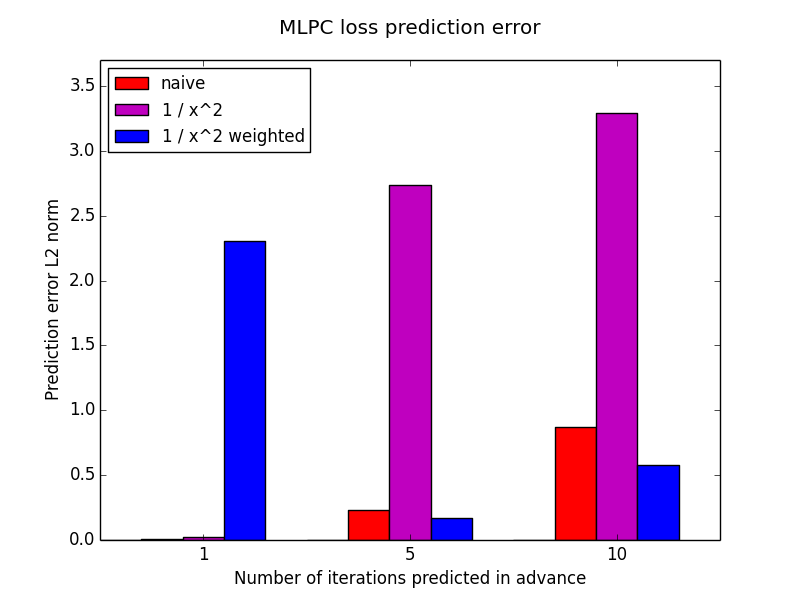
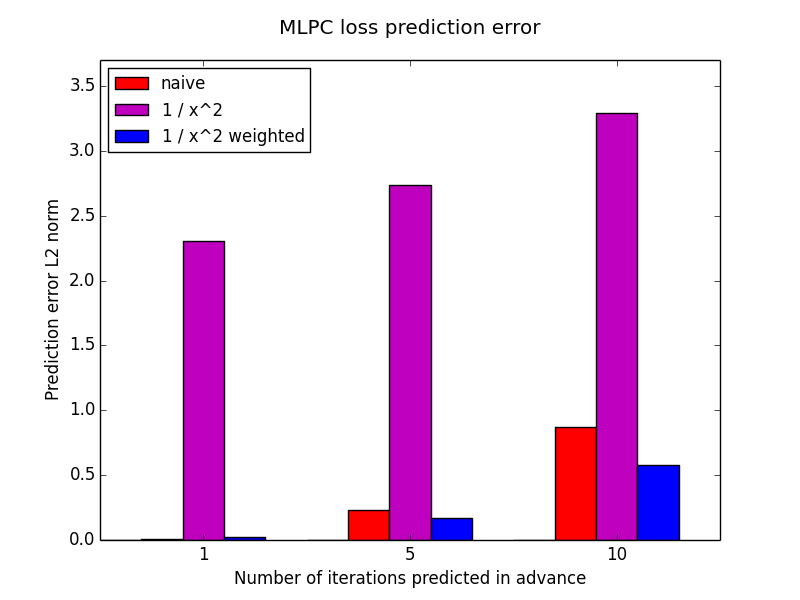
Fix mistake in data in plot_l2.py

Changed region(s): [[0.2188, 0.39, 0.3438, 0.9]]

diff --git a/plotting/plot_l2.py b/plotting/plot_l2.py
@@ -5,8 +5,8 @@ import numpy as np
 import sys
 
 naive = [0.0104850561518, 0.230559622847, 0.867949986696]
-one_over_x_squared_weighted = [2.30675169237, 0.169151590578, 0.57741398472]
-one_over_x_squared = [0.0260023147945, 2.73528843391, 3.29251997264]
+one_over_x_squared_weighted = [0.0260023147945, 0.169151590578, 0.57741398472]
+one_over_x_squared = [2.30675169237, 2.73528843391, 3.29251997264]
 
 def main():
   indices = np.arange(3)
